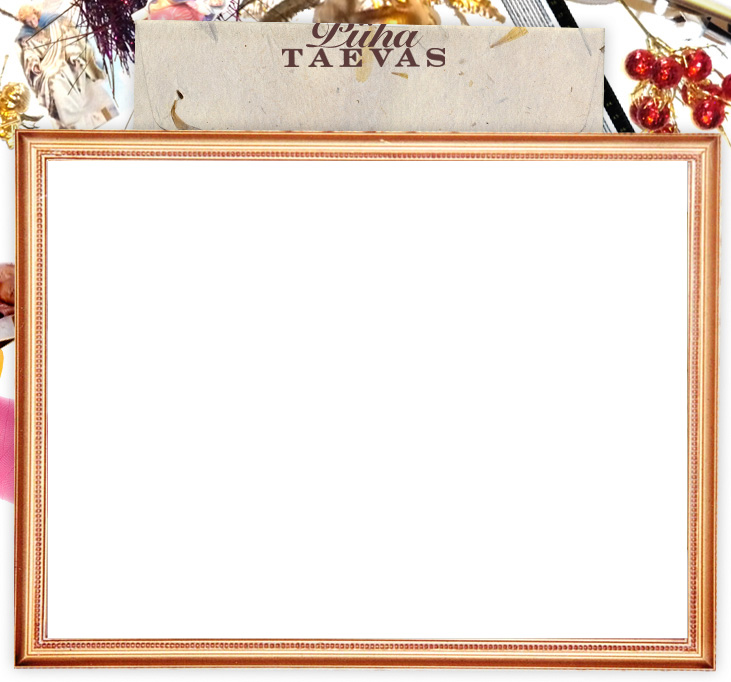
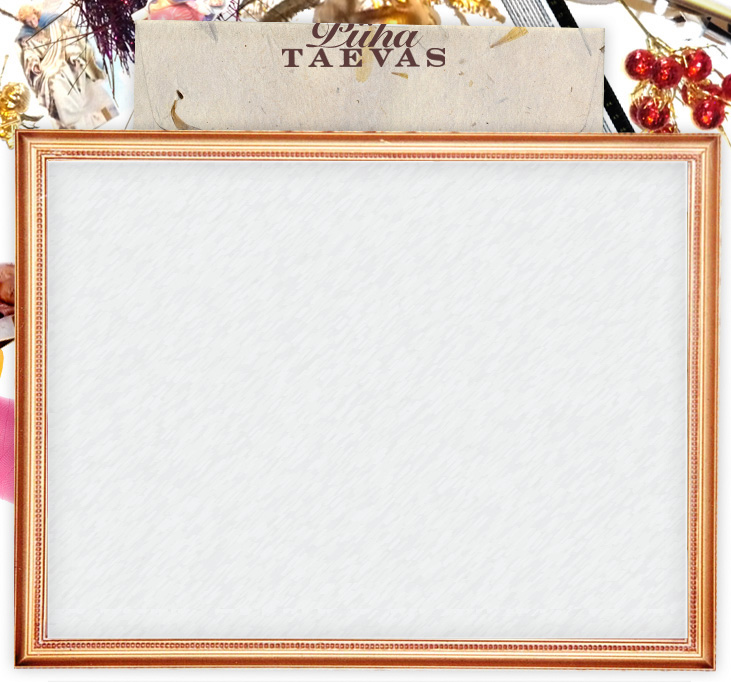
Ask sender name in greeting. New spinner graph.

Changed region(s): [[0.0602, 0.2155, 0.9631, 0.9545]]

diff --git a/public/css/base.css b/public/css/base.css
@@ -49,7 +49,8 @@ margin:0;
 padding:0;
 }
 
-input.text {
+input.text,
+textarea {
 margin-bottom:10px;
 border-top:none;
 border-left:1px solid #5e6e55;
@@ -59,6 +60,10 @@ padding:2px 4px 2px 4px;
 background:transparent;
 font-family:Georgia,"Times New Roman",Times,serif;
 font-size:13px;
+}
+
+textarea {
+overflow-y:auto;
 }
 
 input.submit {
@@ -377,6 +382,16 @@ color:#335223;
 
 #video {
 height:539px;
+}
+
+#videoSpan {
+margin:30px 0 0 48px;
+width:640px;
+height:480px;
+}
+
+#videoSpan img {
+display:block;
 }
 
 #pad {

diff --git a/public/js/application.js b/public/js/application.js
@@ -27,7 +27,7 @@ $(function() {
 
         $('#videoSpan').ajaxComplete(function(request, settings){
             if (settings.status===404){
-                $('#videoSpan').html('<img src="/img/spinner.gif" id="spinner" />');
+                $('#videoSpan').html('<img src="/img/angel.gif" id="spinner" />');
             } else {
                 clearInterval(interval_id);
                 flowplayer("player", "/swf/flowplayer-3.1.5.swf");            
